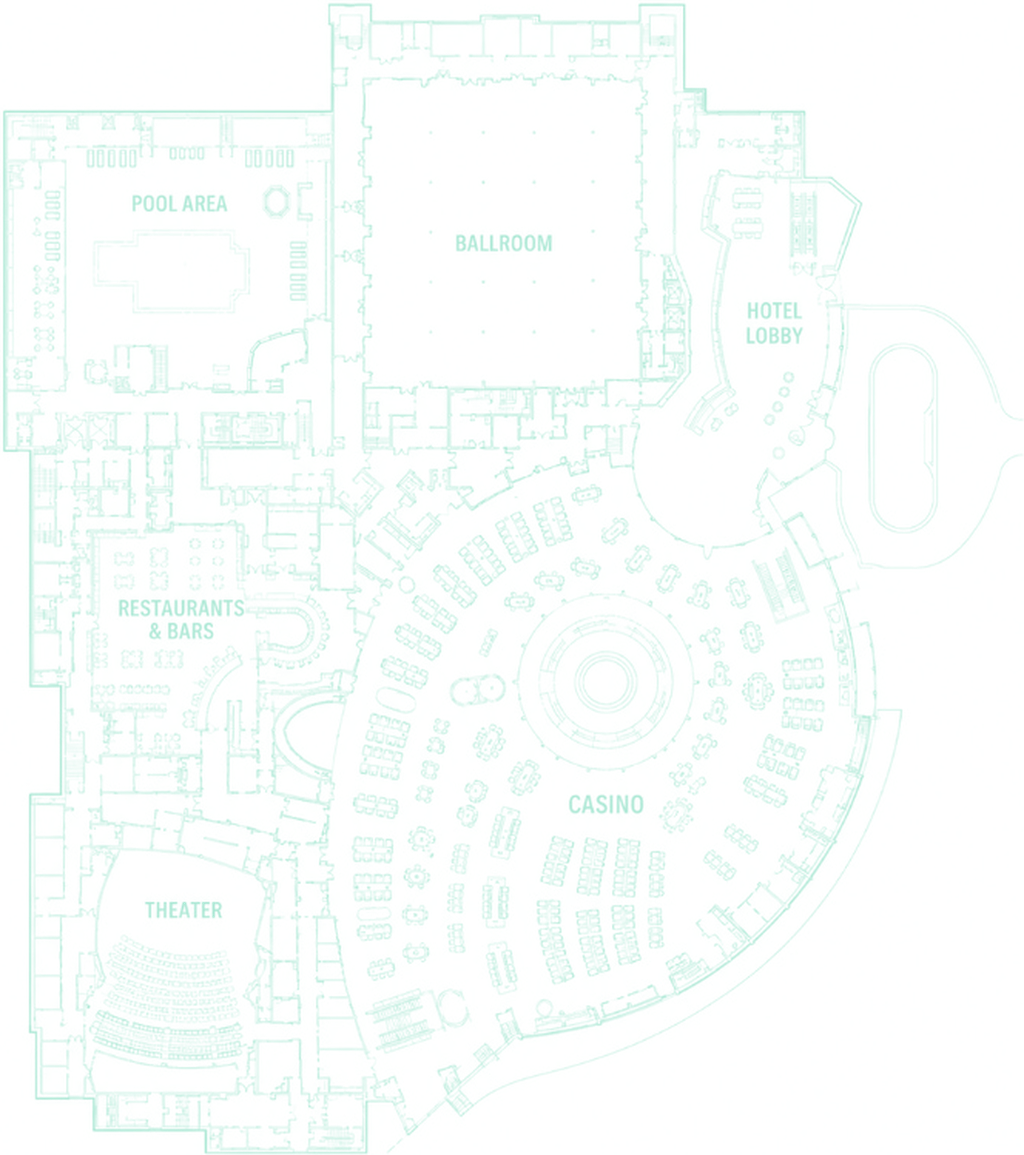
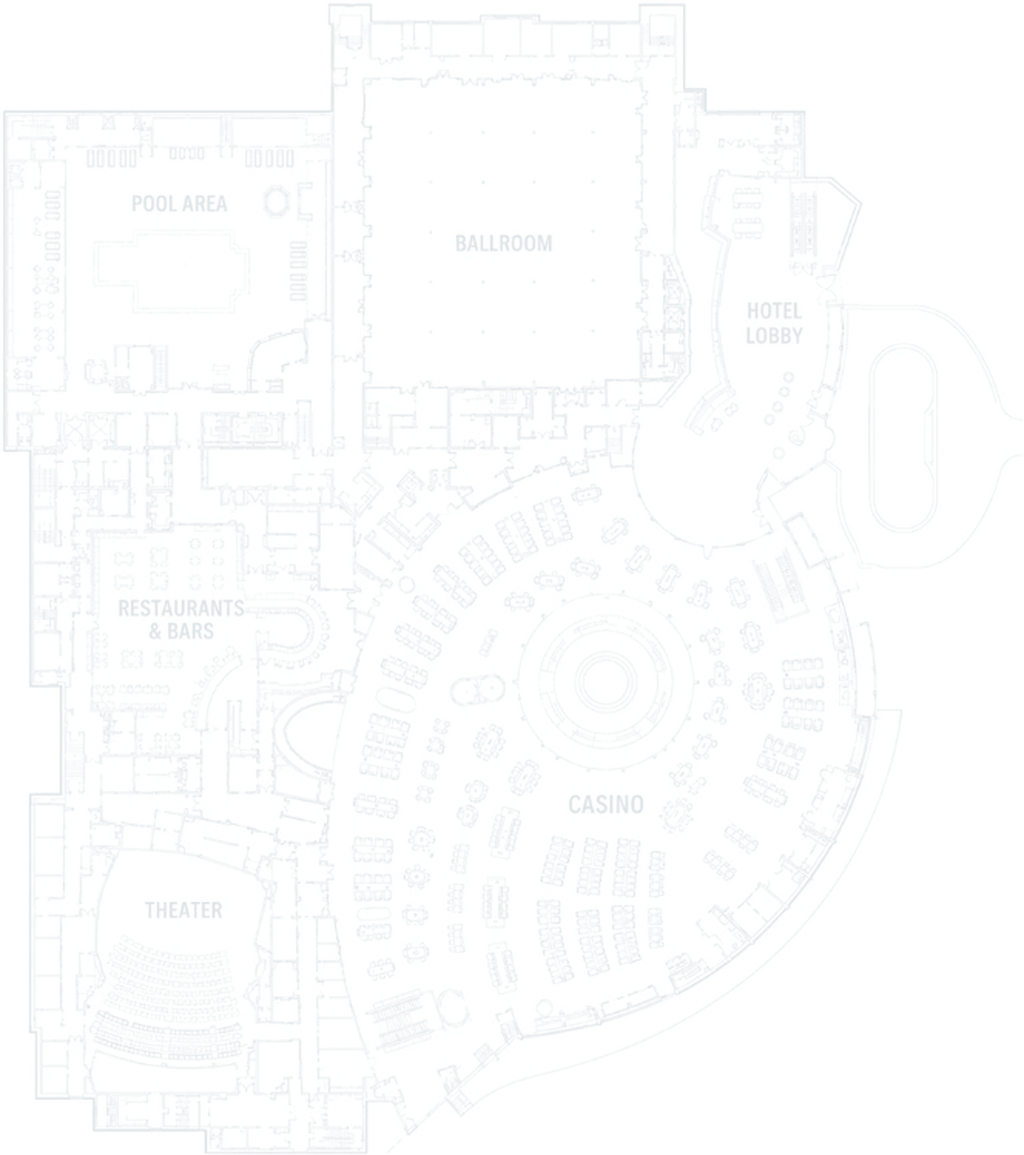
Hero floorplan: dim to neutral cool-gray so mint animations pop
The mint line color collided with the mint demo/cascade animations (same
hue) and the new plan is denser than the old, so the animations were hard
to see on top. Switch the line tint to a neutral cool gray and dim the
whole plan to 50% alpha so it reads as a quiet blueprint underlay — the
bright mint animations now separate cleanly. Bump ?v=2.

diff --git a/src/data/floorControl.ts b/src/data/floorControl.ts
@@ -1,7 +1,7 @@
 /** "LUCI controls the whole floor" floorplan visual — shared by the hero + elsewhere */
 
 export const floorControl = {
-  src: '/images/floorplan-casino.png?v=1',
+  src: '/images/floorplan-casino.png?v=2',
   alt:
     'Casino and resort floorplan — casino floor, ballroom, theater, pool, restaurants and bars, and hotel lobby — with LUCI controlling every system across the property',
 } as const;
